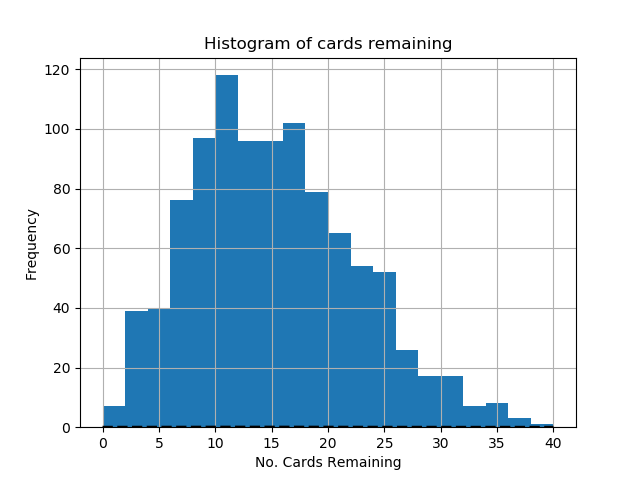
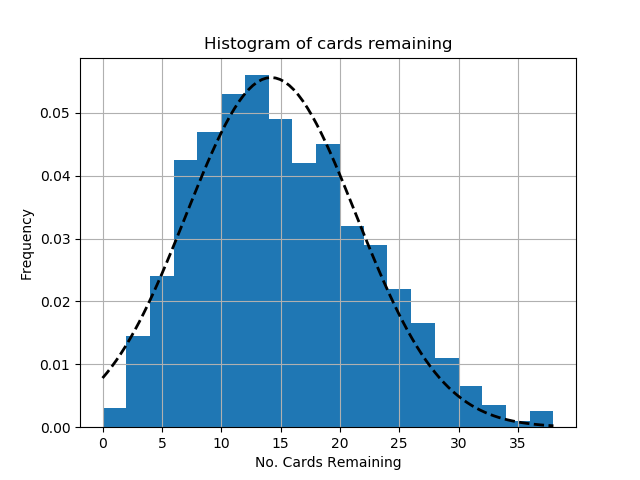
best fit

diff --git a/p5.py b/p5.py
@@ -73,7 +73,7 @@ print( "Sample standard deviation of remaining cards: ", stdev(rem) )
     
 #(mu, sigma) = norm.fit(rem)
 
-n, bins, patches = plt.hist(rem, bins='auto')
+n, bins, patches = plt.hist(rem, bins='auto', normed=True)
 #y = mlab.normpdf(bins, mean(rem), stdev(rem)**2)
 avg = np.mean(rem)
 var= np.var(rem)
